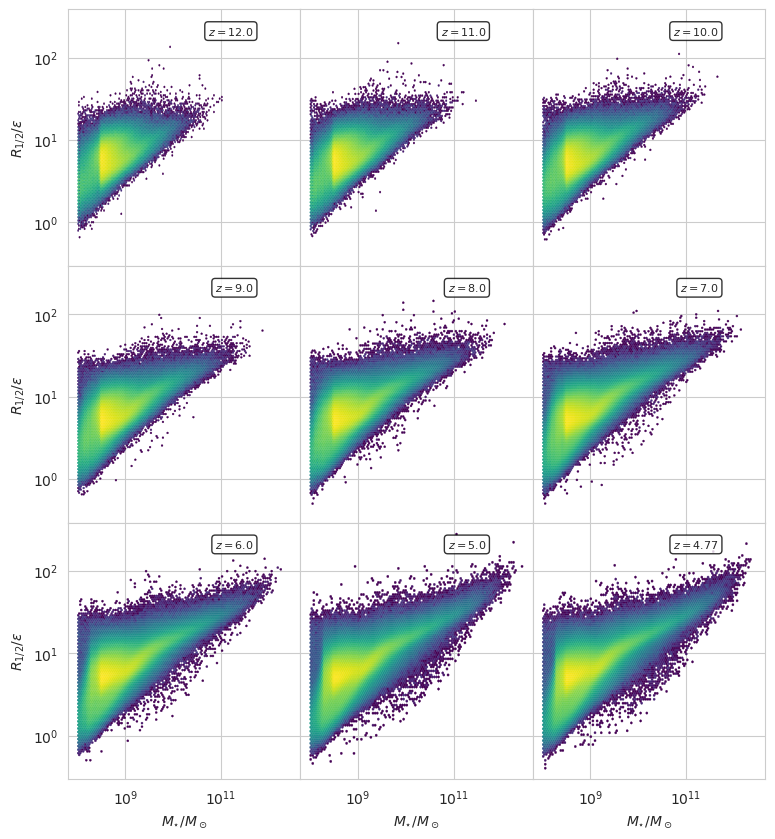
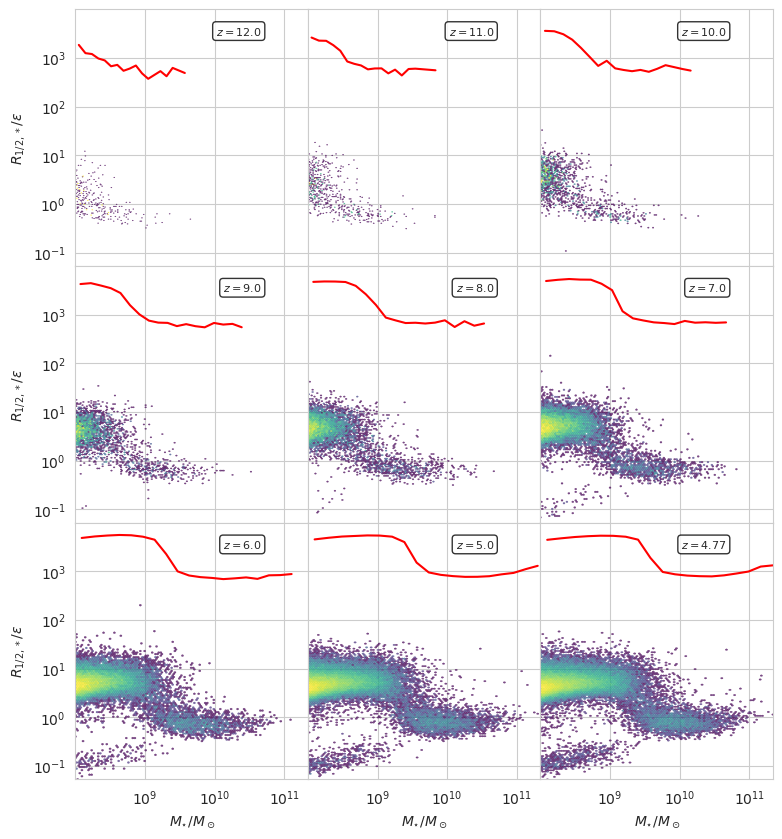
animation

diff --git a/subhalf_mass_scatter_allzs.py b/subhalf_mass_scatter_allzs.py
@@ -29,9 +29,6 @@ snaps = ['003_z012p000', '004_z011p000', '005_z010p000',
 axlims_x = []
 axlims_y = []
 
-# Define comoving softening length in kpc
-csoft = 0.001802390/0.677*1e3
-
 
 def plot_meidan_stat(xs, ys, ax, lab, color, bins=None, ls='-'):
 
@@ -95,9 +92,9 @@ for ax, snap, (i, j) in zip([ax1, ax2, ax3, ax4, ax5, ax6, ax7, ax8, ax9], snaps
     z = float(z_str[0] + '.' + z_str[1])
 
     if z <= 2.8:
-        soft = 0.000474390 / 0.6777
+        soft = 0.000474390 / 0.6777 * 1e3
     else:
-        soft = 0.001802390 / (0.6777 * (1 + z))
+        soft = 0.001802390 / (0.6777 * (1 + z)) * 1e3
 
     xs = np.concatenate(list(xaxis_dict[snap].values()))
     half_mass_rads_plt = np.concatenate(list(half_mass_rads_dict[snap].values()))
@@ -107,7 +104,7 @@ for ax, snap, (i, j) in zip([ax1, ax2, ax3, ax4, ax5, ax6, ax7, ax8, ax9], snaps
     half_mass_rads_plt = half_mass_rads_plt[xs_plt > 1e8]
     xs_plt = xs_plt[xs_plt > 1e8]
     
-    cbar = ax.hexbin(xs_plt, half_mass_rads_plt / (csoft / (1 + z)), gridsize=100, mincnt=1, xscale='log', yscale='log', norm=LogNorm(),
+    cbar = ax.hexbin(xs_plt, half_mass_rads_plt / soft, gridsize=100, mincnt=1, xscale='log', yscale='log', norm=LogNorm(),
                      linewidths=0.2, cmap='viridis', alpha=0.7)
     plot_meidan_stat(xs_plt, half_mass_rads_plt / soft, ax, lab='REF', color='r')
 
